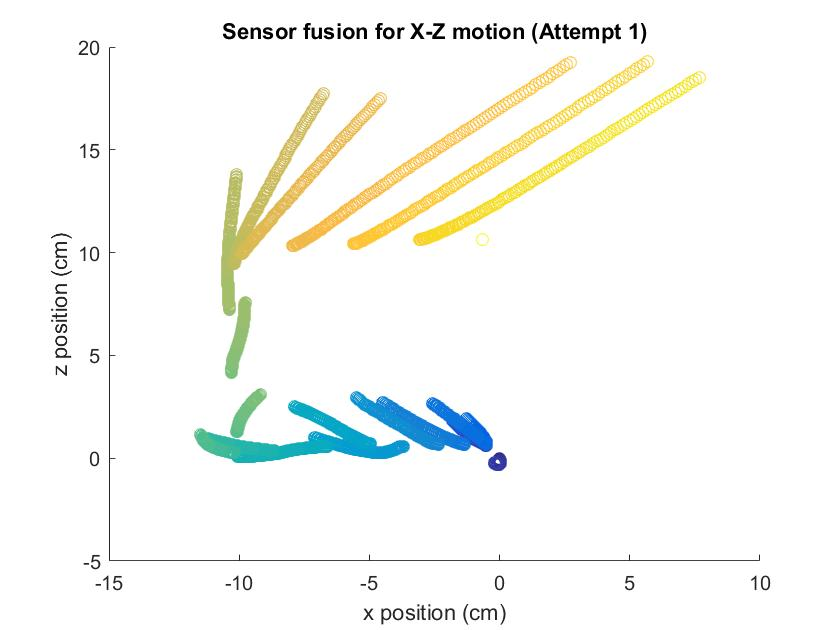
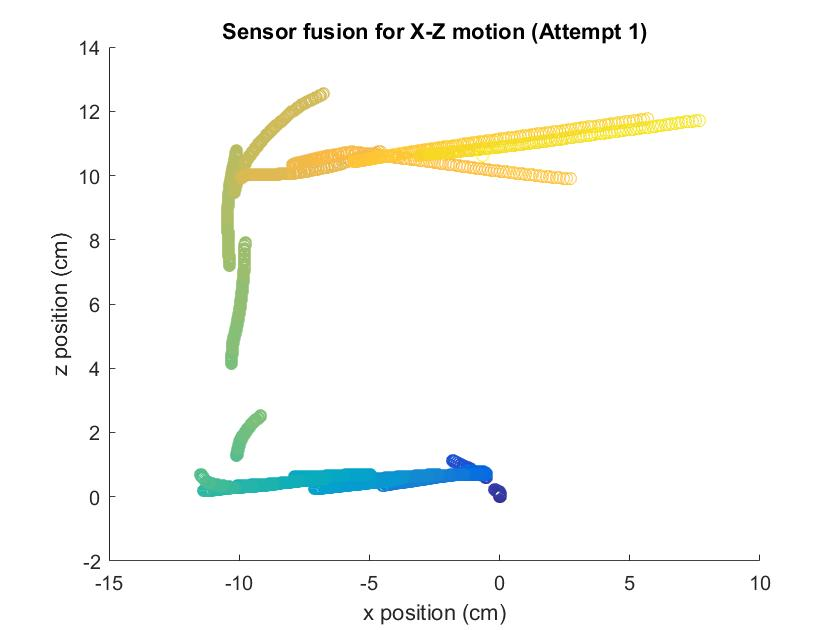
Completed first attempt at sensor fusion (updated)

diff --git a/Kinect/real_time.m b/Kinect/real_time.m
@@ -243,10 +243,11 @@ j = 1;
 for k = 1:size(AccData,2)
     if(tKnct(j) < tAcc(k))
         if( j == 1)
-            state_estimate(1:3) = KnctDataTransf(:,j);
+            state_estimate(1:3) = [KnctDataTransf(1,j); KnctDataTransf(3,j); KnctDataTransf(2,j)];
         else
-            state_estimate(1:3) = KnctDataTransf(:,j);
-            state_estimate(4:6) = (KnctDataTransf(:,j) - KnctDataTransf(:,j-1))/(tKnct(j) - tKnct(j-1)); 
+            state_estimate(1:3) = [KnctDataTransf(1,j); KnctDataTransf(3,j); KnctDataTransf(2,j)];
+            velocity_estimate = (KnctDataTransf(:,j) - KnctDataTransf(:,j-1))/(tKnct(j) - tKnct(j-1));
+            state_estimate(4:6) = [velocity_estimate(1); velocity_estimate(3); velocity_estimate(2)];
         end
         j = min(size(KnctDataTransf,2),j + 1); 
     end
@@ -256,7 +257,7 @@ end
 
 figure;
 c = linspace(1,10,size(AccData,2)); 
-scatter(100*PredictData(1,:),100*PredictData(2,:),[],c)
+scatter(100*PredictData(1,:),100*PredictData(3,:),[],c)
 title('Sensor fusion for X-Z motion (Attempt 1)')
 xlabel('x position (cm)')
 ylabel('z position (cm)')
